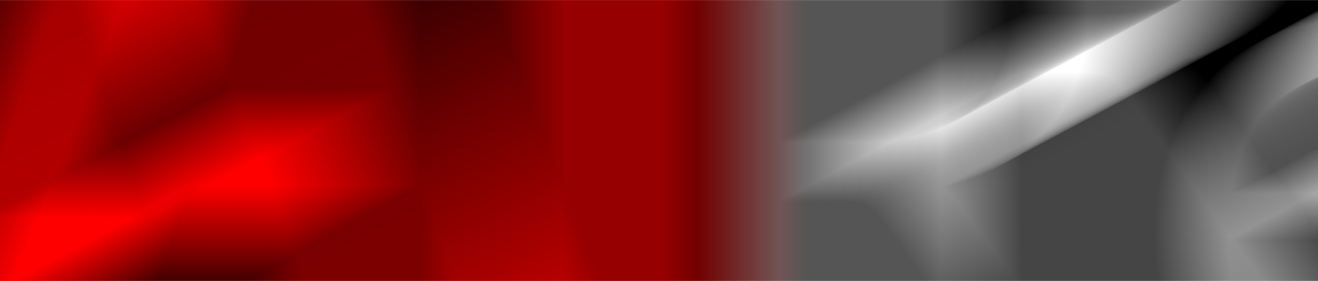
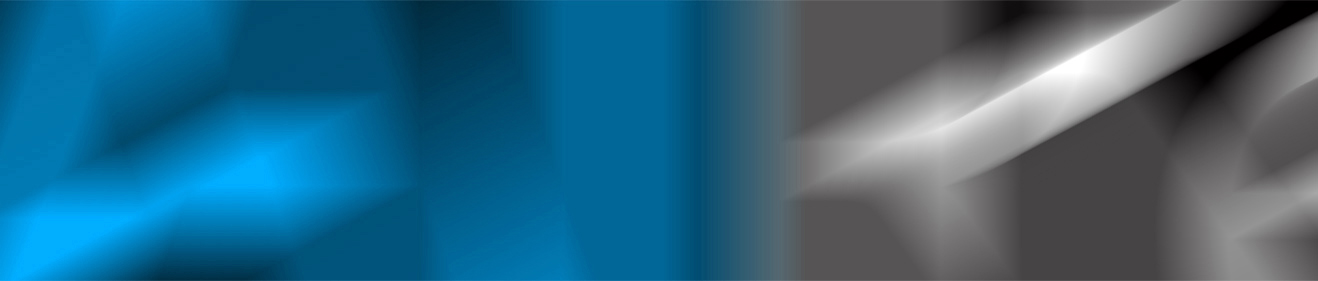
Introducing Version Blue

diff --git a/assets/css/main.css b/assets/css/main.css
@@ -282,6 +282,11 @@ a.admin-href {
   bottom: 8px;
 }
 
+#btn-themed {
+  color: white;
+  background-color: #00b6ff;
+}
+
 #searchform {
   margin: 0px;
 }

diff --git a/includes/utils.php b/includes/utils.php
@@ -25,13 +25,11 @@ function redirect($url, $permanent = false) {
 }
 if (!isset($PcomCount)) { $PcomCount = 5; } 
 if (!isset($PlikeCNT)) { $PlikeCNT = 15; }
-if (!isset($_SESSION["user"]->name)) { 
-  $_SESSION["user"]->name = "John Smith";  }
 $testy = "It worked";
 $_name = $_SESSION["user"]->name;
 ?>
 <script type="text/JavaScript">  
-  alert("<?php echo $_name; ?>");
+//  alert("<?php echo $_name; ?>");
 var PcomCount = "<?php echo $PcomCount; ?>"; 
 var PlikeCNT = "<?php echo $PlikeCNT; ?>";
 var sign_name = "<?php echo $_name; ?>";
@@ -40,11 +38,11 @@ var sign_name = "<?php echo $_name; ?>";
     alert("The answer to all of your Prayers");
     }
     window.onload = function SetName(){
-      alert("SetName Called");
-      alert("this will be set as; " + sign_name);
+     // alert("SetName Called");
+      //alert("this will be set as; " + sign_name);
       document.getElementById("name-area").value = sign_name;
       alert(sign_name);
-    }
+    };
     function SendName(){
       alert("SendName Called");
       var sign_name = document.getElementById('name-area').value;
@@ -91,26 +89,7 @@ var sign_name = "<?php echo $_name; ?>";
             }
             });
         }
-        alert("Start");
-
-              $('.bt-sign-in').click(function(){
-        var sign_name = document.getElementById('name-area').value;
-          var that = this;
-          alert(sign_name);
-          $.ajax({
-              type: "POST",
-              url: "sign-in.php", 
-              data: 'act=user-sign-in'
-                    +'&name='+sign_name,
-
-              success: function(html){
-                alert(sign_name + ", you have logged in successfully");
-              },
-              error: function(msg) {
-                alert(msg.statusText);
-              }
-          });
-        });
+      //  alert("Start");
      </script>' ;
 
 <?php
@@ -124,23 +103,6 @@ var sign_name = "<?php echo $_name; ?>";
  * Otherwise, just updates lastLogin time.
  * Returns user along with privilege level.
  **************/
-  extract($_POST);
-  if($_POST['act'] == 'login-user'){
-  $user = new stdclass; 
-  $user->name = htmlentities($getNAME); 
-  $_SESSION[$user]->name = htmlentities($getNAME);
-  ?>
-<script type="text/JavaScript">  
-var namez = "<?php echo $_SESSION[$user]->name; ?>"; 
-alert(namez);
-</script>
-<?php
-}
-  ?>
-<script type="text/JavaScript">  
-alert("Ending");
-</script>
-<?php
 
 /*function loginUser($name) {
   if( $response['auth']['info'] ) {

diff --git a/includes/search-section.php b/includes/search-section.php
@@ -1,5 +1,9 @@
+<!DOCTYPE html>
+<html lang="en">
+<head>
+      <link rel="stylesheet" href="/assets/css/main.css" type="text/css">
+    </head>
   <div id="heading" class="hero-unit">
-
     <!-- ############### search bar ################## -->
     <div class="row">
       <div id="search" class="col-xs-12">
@@ -10,11 +14,13 @@
               <div id="search-bar" class="input-group">
                 <input name='cat' type='hidden' value="<?= $cat ?>"></input>
                 <?php include ($_SERVER['DOCUMENT_ROOT'].'/includes/category.php'); ?>
+
                 <input id="search-input" type="text" class="form-control"
-                       name='q' value="<?= $sqlQuery ?>" 
+                       name='q' value="<?php if ($sqlQuery != "SELECT * from category where parent=0".$id){
+                        echo $sqlQuery;} ?>" 
                        placeholder="Search within <?= $catTitle ?>">
                 <span class="input-group-addon">
-                  <button type="submit" class="btn btn-danger">Search</button>
+                  <button type="submit" class="btn btn-themed" style="color: white; background-color: #00b6ff">Search</button>
                 </span>
               </div>
             </div>
@@ -35,3 +41,4 @@
        data-toggle="modal"
        data-target="#search-tip-modal">Advanced Search Tips</a>
   </div> <!-- end id=heading -->
+  </html>

diff --git a/includes/sign-in.php b/includes/sign-in.php
@@ -17,6 +17,10 @@ $pMysqli = new mysqli('127.0.0.1', 'root', 'asa192526', 'openair');
 $_name = $nominal;
 
     $_SESSION["user"]->name = $nominal;
+    if (!isset($_SESSION["user"]->name)) { 
+    $_SESSION["user"]->id = uniqueid();  }
+
+
 
 /*
     //insert the comment in the database
